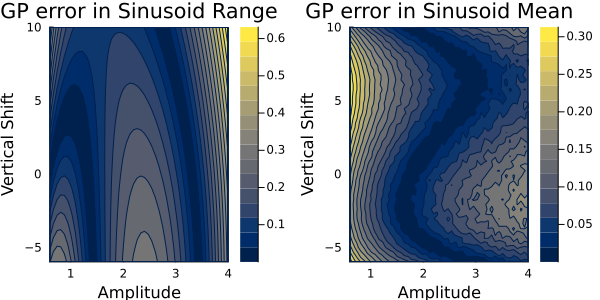
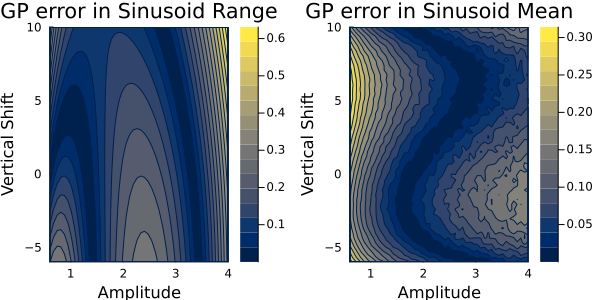
Sinusoidal example (#287)
* `rng` is now saved into `.jld2` files at the end of the example scripts and then opened at the start of the next script, so entire workflow agrees with results of running snippets from the docs pages, if you set the same `rng` at the start. But removed `rng` from the docs page to keep it looking clean.
* This also changed a few numbers and plots.
* I increased the nugget term from 1e-12 to 1e-9 to help stability and consistency.
* Added missing imports `Statistics` and `Distributions` in docs and in example file.
* `emulator` -> `emulator_gp` in docs page
* defined `init_sample` and other variables that go into the random features emulator in docs page.

diff --git a/docs/src/examples/sinusoid_example.md b/docs/src/examples/sinusoid_example.md
@@ -4,7 +4,7 @@
     The full code is found in the [`examples/`](https://github.com/CliMA/CalibrateEmulateSample.jl/tree/main/examples) directory of the github repository
 
 ## Background
-This example demonstrates how to use CalibrateEmulateSample.jl for a simple model that generates noisy
+This example demonstrates how to use `CalibrateEmulateSample.jl` for a simple model that generates noisy
 observables of a signal. The sinusoid signal is defined by two parameters: its shift along the vertical axis
 and its amplitude. We make noisy observations of the signal and we can calculate the mean of the signal,
 which is informative about its shift along the axis, and the range of the signal, which is informative 
@@ -34,7 +34,7 @@ where $\Gamma$ is the observational covariance matrix. We will assume the noise 
 
 # Walkthrough of code
 
-The code is split into four sections:
+You can find the full scripts to reproduce this tutorial in `examples/Sinusoid/`. The code is split into four sections:
 
 1. Model set up in `sinusoid_setup.jl`
 2. Calibrate in `calibrate.jl`
@@ -52,6 +52,8 @@ First, we load the packages we need for setting up the model:
 using LinearAlgebra, Random
 using Plots
 using JLD2
+using Statistics, Distributions
+
 ```
 
 We define a model that generates a sinusoid given parameters $\theta=(A,v)$ 
@@ -59,15 +61,13 @@ We define a model that generates a sinusoid given parameters $\theta=(A,v)$
 The model adds a random phase shift upon evaluation.
 
 ```julia
-# Seed for pseudo-random number generator.
-rng_seed = 41
-rng = Random.MersenneTwister(rng_seed)
 # Define x-axis
 dt = 0.01
 trange = 0:dt:(2 * pi + dt)
 
 function model(amplitude, vert_shift)
-    phi = 2 * pi * rand(rng)
+    # Set phi, the random phase
+    phi = 2 * pi * rand()
     return amplitude * sin.(trange .+ phi) .+ vert_shift
 end
 
@@ -149,7 +149,7 @@ prior_u1 = PD.constrained_gaussian("amplitude", 2, 1, 0, Inf)
 prior_u2 = PD.constrained_gaussian("vert_shift", 0, 5, -Inf, Inf)
 prior = PD.combine_distributions([prior_u1, prior_u2])
 # Plot priors
-p = plot(prior)
+p = plot(prior, fill = :lightgray)
 ```
 ![prior](../assets/sinusoid_prior.png)
 
@@ -158,9 +158,9 @@ We now generate the initial ensemble and set up the EKI.
 N_ensemble = 10
 N_iterations = 5
 
-initial_ensemble = EKP.construct_initial_ensemble(rng, prior, N_ensemble)
+initial_ensemble = EKP.construct_initial_ensemble(prior, N_ensemble)
 
-ensemble_kalman_process = EKP.EnsembleKalmanProcess(initial_ensemble, y_obs, Γ, EKP.Inversion(); rng = rng)
+ensemble_kalman_process = EKP.EnsembleKalmanProcess(initial_ensemble, y_obs, Γ, EKP.Inversion())
 ```
 
 We are now ready to carry out the inversion. At each iteration, we get the
@@ -181,13 +181,13 @@ Finally, we get the ensemble after the last iteration. This provides our estimat
 final_ensemble = EKP.get_ϕ_final(prior, ensemble_kalman_process)
 
 # Check that the ensemble mean is close to the theta_true
-println("Ensemble mean: ", mean(final_ensemble, dims=2))   # [3.08, 6.37]
+println("Ensemble mean: ", mean(final_ensemble, dims=2))   # [3.05, 6.37]
 println("True parameters: ", theta_true)   # [3.0, 7.0]
 ```
 
 | Parameter         | Truth    | EKI mean |
 | :---------------- | :------: | :----: |
-| Amplitude         |   3.0    | 3.08  |
+| Amplitude         |   3.0    | 3.05  |
 | Vertical shift    |   7.0    | 6.37  |
 
 The EKI ensemble mean at the final iteration is close to the true parameters, which is good.
@@ -265,20 +265,24 @@ For new problems, you may need to play around with these parameter choices.
 More information can be found [here](https://clima.github.io/CalibrateEmulateSample.jl/dev/random_feature_emulator/).
 
 ```julia
+# We have two input dimensions and two output dimensions.
+input_dim = 2
+output_dim = 2
+# Select number of features
+n_features = 60
+nugget = 1e-9
 kernel_structure = NonseparableKernel(LowRankFactor(2, nugget))
 optimizer_options = Dict(
     "n_ensemble" => 50,
     "cov_sample_multiplier" => 10,
     "scheduler" => EKP.DataMisfitController(on_terminate = "continue"),
     "n_iteration" => 50,
-    "rng" => rng,
     "verbose" => true,
 )
 random_features = VectorRandomFeatureInterface(
     n_features,
     input_dim,
     output_dim,
-    rng = rng,
     kernel_structure = kernel_structure,
     optimizer_options = optimizer_options,
 )
@@ -356,10 +360,15 @@ using CalibrateEmulateSample.MarkovChainMonteCarlo
 ```
 
 We will provide the API with the observations, priors and our cheap emulator from the previous section. In this 
-example we use the GP emulator. 
-
+example we use the GP emulator. First, we need to find a suitable starting point, ideally one that is near the posterior distribution. We will use the final ensemble mean from EKI as this will increase the chance of acceptance near the start of the chain, and reduce burn-in time.
 ```julia
-mcmc = MCMCWrapper(RWMHSampling(), y_obs, prior, emulator; init_params = init_sample)
+init_sample = EKP.get_u_mean_final(ensemble_kalman_process)
+println("initial parameters: ", init_sample)    # (1.11, 6.37)
+```
+
+Now, we can set up and carry out the MCMC starting from this point. 
+```julia
+mcmc = MCMCWrapper(RWMHSampling(), y_obs, prior, emulator_gp; init_params = init_sample)
 # First let's run a short chain to determine a good step size
 new_step = optimize_stepsize(mcmc; init_stepsize = 0.1, N = 2000, discard_initial = 0)
 
@@ -373,8 +382,8 @@ display(chain)
 
 | parameters         | mean    | std |
 | :---------------- | :------: | :----: |
-| amplitude         |   1.1049 | 0.0942  |
-| vert_shift        |   6.3753 | 0.4591  |
+| amplitude         |   1.1068 | 0.0943  |
+| vert_shift        |   6.3897 | 0.4601  |
 
 Note that these values are provided in the unconstrained space. The vertical shift
 seems reasonable, but the amplitude is not. This is because the amplitude is constrained to be
@@ -388,14 +397,16 @@ posterior = MarkovChainMonteCarlo.get_posterior(mcmc, chain)
 constrained_posterior = Emulators.transform_unconstrained_to_constrained(
     prior, MarkovChainMonteCarlo.get_distribution(posterior)
 )
+println("Amplitude mean: ", mean(constrained_posterior["amplitude"]), ", std: ", std(constrained_posterior["amplitude"]))
+println("Vertical shift mean: ", mean(constrained_posterior["vert_shift"]), ", std: ", std(constrained_posterior["vert_shift"]))
 ```
 This gives:
 
 
 | parameters         | mean    | std |
 | :---------------- | :------: | :----: |
-| amplitude         |   3.0324 | 0.2863  |
-| vert_shift        |   6.3753 | 0.4591  |
+| amplitude         |   3.0382 | 0.2861  |
+| vert_shift        |   6.3897 | 0.4601  |
 
 This is in agreement with the true $\theta=(3.0, 7.0)$ and with the observational covariance matrix we provided $\Gamma=0.2 * I$ (i.e., a standard deviation of approx. $0.45$). `CalibrateEmulateSample.jl` has built-in plotting
 recipes to help us visualize the prior and posterior distributions.  Note that these are the
@@ -403,8 +414,8 @@ marginal distributions.
 
 ```julia
 # We can quickly plot priors and posterior using built-in capabilities
-p = plot(prior)
-plot!(posterior)
+p = plot(prior, fill = :lightgray)
+plot!(posterior, fill = :darkblue, alpha = 0.5)
 
 ```
 ![GP_posterior](../assets/sinusoid_posterior_GP.png)
